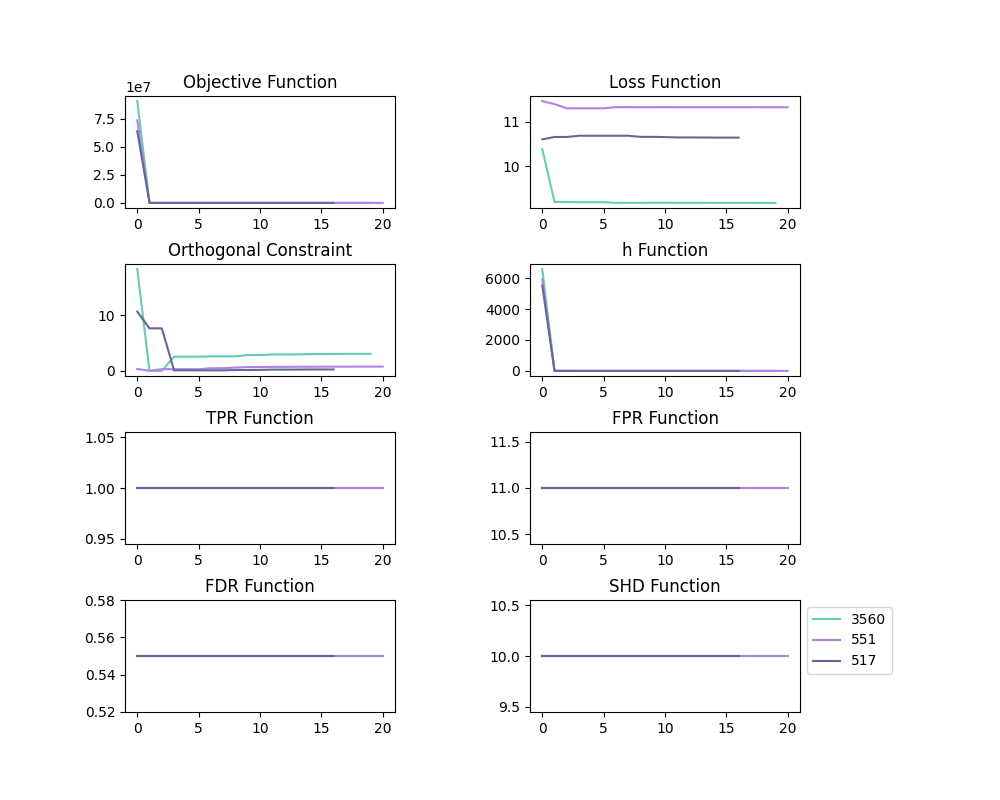
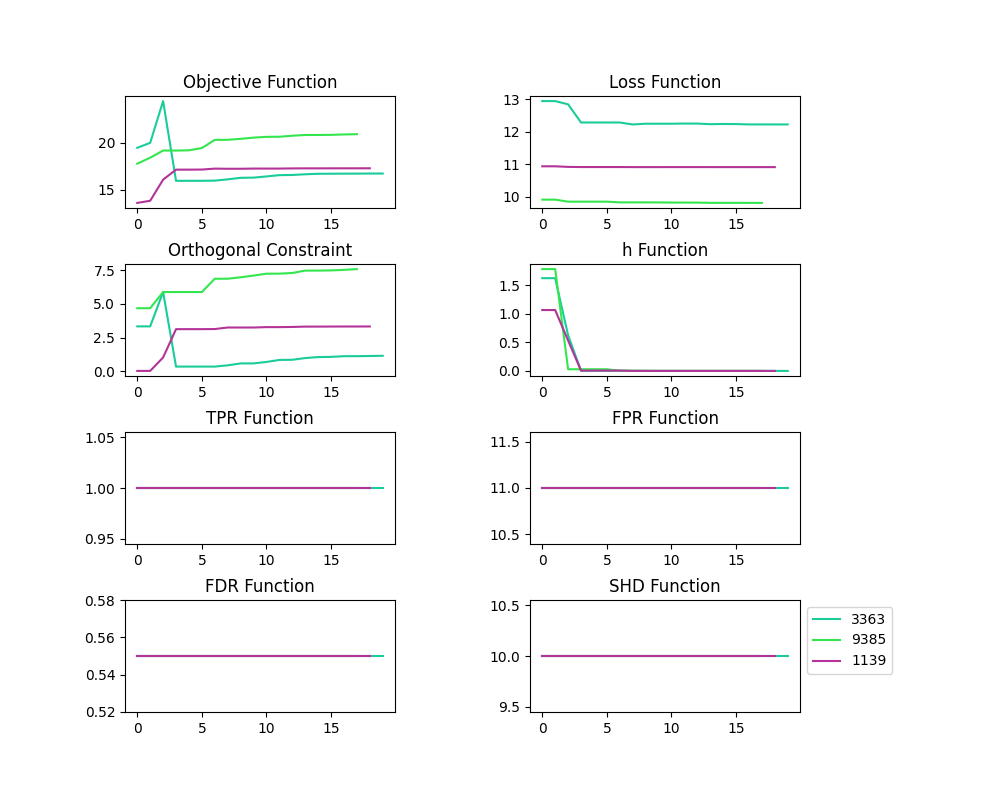
binh first commit

diff --git a/non_parametrics/notears/notears/ScalableDAG_v2.py b/non_parametrics/notears/notears/ScalableDAG_v2.py
@@ -91,8 +91,6 @@ class ScalableDAG_V2(nn.Module):
         reg = torch.sum(self.fc1_pos.weight + self.fc1_neg.weight)
         return reg
     
-
-
     @torch.no_grad()
     def fc1_to_adj(self) -> np.ndarray:  # [j * m1, i] -> [i, j]
         """Get W from fc1 weights, take 2-norm over m1 dim"""
@@ -156,44 +154,7 @@ def squared_loss(output, target):
 def dual_ascent_step(model, X, lambda1, lambda2, rho, alpha, h, rho_max, X_latin):
     """Perform one step of dual ascent in augmented Lagrangian."""
     h_new = None
-    optimizer = LBFGSBScipy(model.parameters())
-
-    with torch.no_grad():
-        primal_obj = 0.0
-        loss = 0.0
-        ortho = 0.0
-        h_val = 0.0
-        penalty = 0.0
-        l2_reg = 0.0
-        l1_reg = 0.0
-        for j in range(X.shape[1]):
-            #init X_phi, X_alpha
-            X_phi = X.copy()
-            X_alpha = np.zeros(X.shape) 
-
-            #modify X_phi, X_alpha
-            X_phi[:,j] = np.zeros(X.shape[0]) 
-            X_alpha[:,j] = X[:,j]
-
-            #transform to tensor X_phi, X_alpha
-            X_phi_torch = torch.from_numpy(X_phi)
-            X_alpha_torch = torch.from_numpy(X_alpha)
-            X_torch = torch.from_numpy(X[:,[j]])
-
-            #get X_hat
-            X_phi_hat = model(X_phi_torch)
-            X_alpha_hat = model(X_alpha_torch)
-            X_hat = torch.sum(X_phi_hat*X_alpha_hat, dim=1, keepdim=True)
-        
-            #loss 
-            loss += squared_loss(X_hat, X_torch)
-            ortho += orthogonality(model(X_latin))
-            h_val += model.h_func()
-            penalty += 0.5 * rho * h_val * h_val + alpha * h_val
-            l2_reg += 0.5 * lambda2 * model.l2_reg()
-            l1_reg += lambda1 * model.fc1_l1_reg()
-            primal_obj += loss + penalty + l1_reg  + l2_reg + ortho
-
+    optimizer = LBFGSBScipy(model.parameters()) 
 
     def closure():
         total_primal_obj = 0.0
@@ -234,14 +195,57 @@ def dual_ascent_step(model, X, lambda1, lambda2, rho, alpha, h, rho_max, X_latin
     
     with torch.no_grad():
         h_new = model.h_func().item()
-    
+        total_primal_obj = 0.0
+        total_loss = 0.0
+        total_ortho = 0.0
+        total_h_val = 0.0
+        total_penalty = 0.0
+        total_l2_reg = 0.0
+        total_l1_reg = 0.0
+        for j in range(X.shape[1]):
+            #init X_phi, X_alpha
+            X_phi = X.copy()
+            X_alpha = np.zeros(X.shape) 
+
+            #modify X_phi, X_alpha
+            X_phi[:,j] = np.zeros(X.shape[0]) 
+            X_alpha[:,j] = X[:,j]
+
+            #transform to tensor X_phi, X_alpha
+            X_phi_torch = torch.from_numpy(X_phi)
+            X_alpha_torch = torch.from_numpy(X_alpha)
+            X_torch = torch.from_numpy(X[:,[j]])
+
+            #get X_hat
+            X_phi_hat = model(X_phi_torch)
+            X_alpha_hat = model(X_alpha_torch)
+            X_hat = torch.sum(X_phi_hat*X_alpha_hat, dim=1, keepdim=True)
+        
+            #loss 
+            loss = squared_loss(X_hat, X_torch)
+            ortho = orthogonality(model(X_latin))
+            h_val = model.h_func()
+            penalty = 0.5 * rho * h_val * h_val + alpha * h_val
+            l2_reg = 0.5 * lambda2 * model.l2_reg()
+            l1_reg = lambda1 * model.fc1_l1_reg()
+            primal_obj = loss + penalty + l1_reg  + l2_reg + ortho 
+            
+            #sum 
+            total_primal_obj += primal_obj
+            total_loss += loss
+            total_ortho += ortho
+            total_h_val += h_val
+            total_penalty += penalty
+            total_l2_reg += l2_reg
+            total_l1_reg += l1_reg
+
     if h_new > 0.25 * h:
         rho *= 10
     if h_new == None:
         h_new = h
         print('there is something with h_new')
     alpha += rho * h_new
-    return rho, alpha, h_new, primal_obj, loss, ortho, h_val
+    return rho, alpha, h_new, total_primal_obj, total_loss, total_ortho, total_h_val
 
 def notears_nonlinear(model: nn.Module,
                       X: np.ndarray,log,B_true,
@@ -253,17 +257,20 @@ def notears_nonlinear(model: nn.Module,
                       w_threshold: float = 0.3):
     rho, alpha, h = 1.0, 0.0, np.inf
     X_latin = latin_hyper(X, n=20)
-
     for _ in tqdm(range(max_iter)):
         rho, alpha, h, obj_func, loss, ortho, h_val = dual_ascent_step(model, X, lambda1, lambda2,
                                         rho, alpha, h, rho_max, X_latin)
         num_epoch = _
         W_est = model.fc1_to_adj()
         acc = count_accuracy(B_true, W_est != 0)
+        print(W_est)
+        print(B_true)
+        print(acc)
         log.step_update(log.log['random_seed'][-1],obj_func,loss,ortho,h_val,acc)
         if h <= h_tol or rho >= rho_max:
             break
 
+        
 
     log.log['num_epoch'][log.log['random_seed'][-1]] = num_epoch + 1 
 
@@ -281,7 +288,7 @@ def main():
     log = Logging(name)
     #AVERAG ---- 
 
-    random_numbers = [random.randint(1, 10000) for _ in range(3)]#[702,210,1536]
+    random_numbers = [random.randint(1, 10000) for _ in range(1)]#[702,210,1536]
     print(random_numbers)
     for r in random_numbers: #[2,3,5,6,9,15,19,28,2000,2001]
         print("\n-----------------------------------------")
